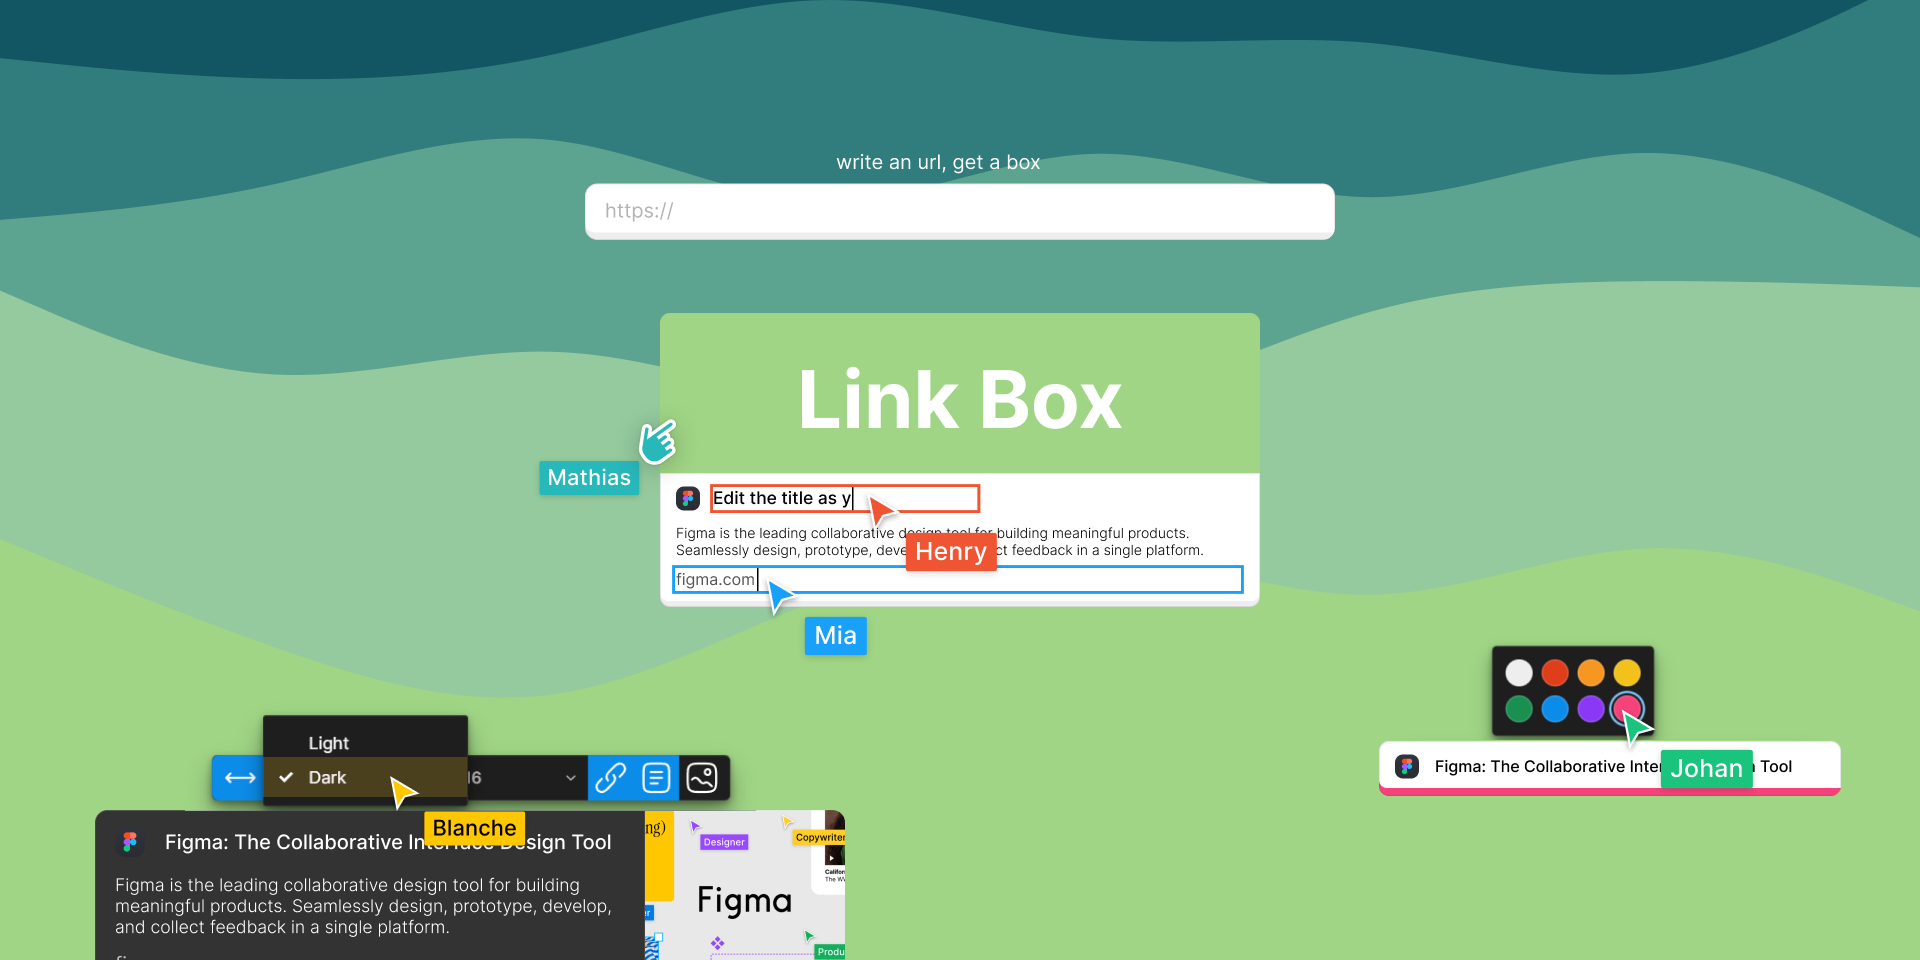
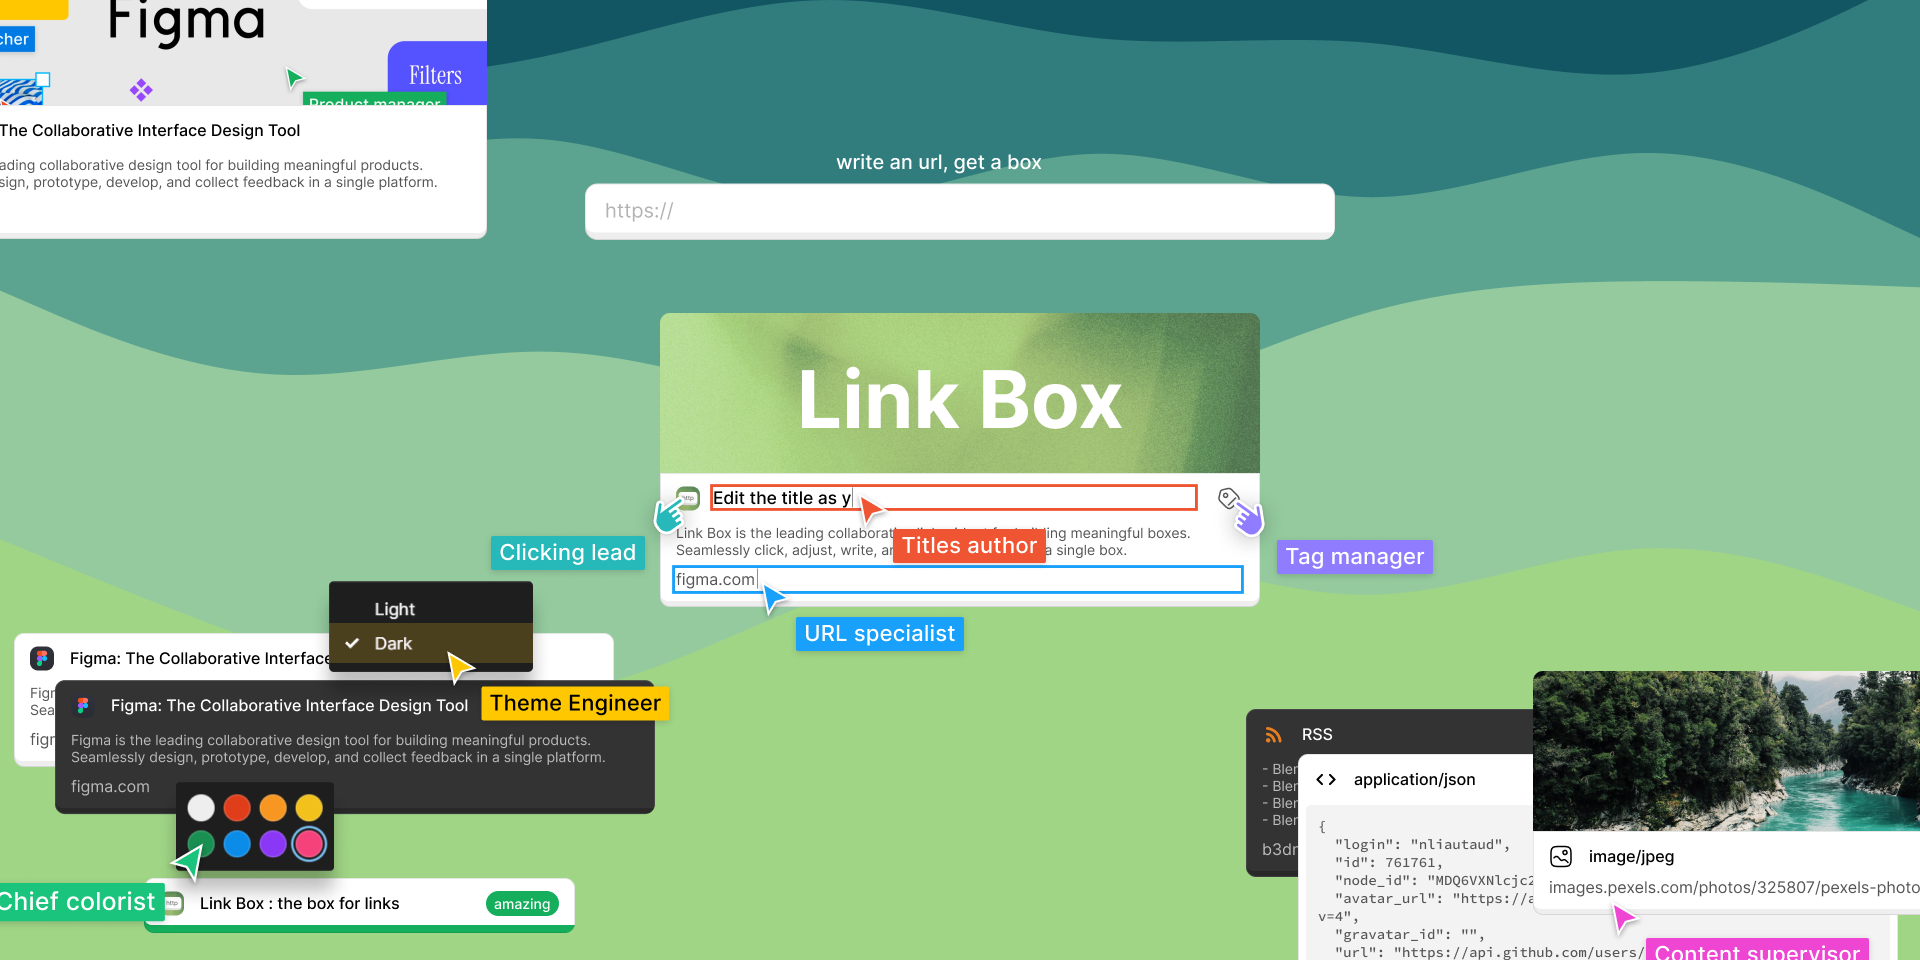
tags

diff --git a/widget-src/code.tsx b/widget-src/code.tsx
@@ -14,6 +14,7 @@ function Widget() {
   const [type, setType] = useSyncedState<LinkType>('type', LinkType.none)
   const [href, setHref] = useSyncedState('href', '')
   const [title, setTitle] = useSyncedState('title', '')
+  const [tag, setTag] = useSyncedState('tag', '')
   const [userTitle, setUserTitle] = useSyncedState('userTitle', '')
   const [icon, setIcon] = useSyncedState('icon', '')
   // const [svgIcon, setSvgIcon] = useSyncedState('icon', '')
@@ -141,41 +142,118 @@ function Widget() {
   // const colors = () => theme == 'light' ? Themes.Light : Themes.Dark
   const colors = theme == Themes.Light ? Colors.Light : Colors.Dark
 
-  const ImageComponent = fetchState && showImage && image ? (
-    <Image
-      name='Image'
-      src={image}
-      width={vertical ? 'fill-parent' : s(160)}
-      height={vertical ? s(160) : 'fill-parent'}
-    />
-  ) : null
-
-  const IconComponent = (
+  const IconComponent =
     icon && <Image
       name='icon'
       src={icon}
       width={s(24)}
       height={s(24)}
     />
-    // || svgIcon && <SVG
-    //   src={svgIcon}
-    //   width={s(24)}
-    //   height={s(24)}
-    // />
-  )
+  // || svgIcon && <SVG
+  //   src={svgIcon}
+  //   width={s(24)}
+  //   height={s(24)}
+  // />
+
   const DefaultIcon =
-    type == LinkType.none ? 
-    <Frame
-      width={s(24)}
-      height={s(24)}
-      cornerRadius={s(8)}
-      fill={accent == defaultAccent ? colors.border : accent}
-    ></Frame> :
-    <SVG
-      src={Icons.type(type, theme)}
-      width={s(24)}
-      height={s(24)}
-    />
+    type == LinkType.none ?
+      <Frame
+        width={s(24)}
+        height={s(24)}
+        cornerRadius={s(8)}
+        fill={accent == defaultAccent ? colors.border : accent}
+      ></Frame> :
+      <SVG
+        src={Icons.type(type, theme)}
+        width={s(24)}
+        height={s(24)}
+      />
+
+  const tagLong = tag.length > 30
+  const tagAtBottom = tagLong && !(image && showImage && vertical )
+  const tagAtTitle = !tagLong && !(image && showImage )
+  const tagOnImage = !tagAtBottom && !tagAtTitle
+
+  const [test, setTest] = useSyncedState('test', false)
+  const TagComponent =
+    <AutoLayout
+      name='TagWrapper'
+      padding={tagLong ? {
+        horizontal: s(8),
+        vertical: s(4)
+      } : undefined}
+      positioning={ tagOnImage ? 'absolute' : undefined}
+      width={tagOnImage ? (vertical ? s(600) : s(160) - s(16)) : undefined}
+      y={s(12)}
+      horizontalAlignItems={'end'}
+      verticalAlignItems={'center'}
+    >
+      <SVG
+        name='AddTag'
+        src={Icons.svg.tag(accent == defaultAccent ? colors.txtFaded : accent)}
+        hidden={tag.length > 0}
+        onClick={() => setTag("tag")}
+        width={s(24)}
+        height={s(24)}
+        opacity={0}
+        hoverStyle={{
+          opacity: 1
+        }}
+      />
+      <AutoLayout
+        name='Tag'
+        hidden={tag.length == 0}
+        verticalAlignItems={'center'}
+        cornerRadius={s(99)}
+        fill={accent == defaultAccent ? theme == Themes.Light ? colors.txtFaded : colors.txtFaded : accent}
+        padding={{
+          horizontal: s(8),
+          vertical: s(4)
+        }}
+      >
+        <Text
+          name='tag-clone-for-resize'
+          fontSize={s(14)}
+          width='hug-contents'
+          height='hug-contents'
+          opacity={0}
+        >{tag}</Text>
+        <Input
+          positioning='absolute'
+          x={0} y={0}
+          width='fill-parent'
+          name='tag'
+          value={tag}
+          onTextEditEnd={(event) => setTag(event.characters.trim())}
+          fill={accent == defaultAccent ? theme == Themes.Light ? colors.bg : colors.bg : colors.bg}
+          href=''
+          fontSize={s(14)}
+          verticalAlignText='center'
+          inputBehavior={'truncate'}
+          inputFrameProps={{
+            name: 'Tag-Input',
+            padding: {
+              horizontal: s(8),
+              vertical: s(4)
+            }
+          }} />
+      </AutoLayout>
+    </AutoLayout>
+
+  const ImageComponent = fetchState && showImage && image ? (
+    <AutoLayout
+      width={vertical ? 'fill-parent' : s(160)}
+      height={vertical ? s(160) : 'fill-parent'}
+    >
+      <Image
+        name='Image'
+        src={image}
+        width='fill-parent'
+        height='fill-parent'
+      />
+      {tagOnImage && TagComponent}
+    </AutoLayout>
+  ) : null
 
   const component = (
     <AutoLayout
@@ -236,7 +314,7 @@ function Widget() {
                   cornerRadius={s(8)}
                   onClick={() => navigate(Url.withHttps(href)?.href)}
                 >
-                  {IconComponent || DefaultIcon }
+                  {IconComponent || DefaultIcon}
                 </Frame>
                 <Input
                   name='Title-Input'
@@ -258,6 +336,7 @@ function Widget() {
                     wrap: true
                   }}
                 />
+                {tagAtTitle && TagComponent}
               </AutoLayout>
               {desc && showDesc ?
                 <AutoLayout
@@ -278,8 +357,9 @@ function Widget() {
                   >{desc}</Text>
                 </AutoLayout> : null}
             </> : null}
-          {showUrl && <AutoLayout
-            name='URL'
+          <AutoLayout
+            name='URL row'
+            hidden={!showUrl}
             width={'fill-parent'}
             verticalAlignItems={'center'}
             spacing={s(8)}
@@ -287,43 +367,44 @@ function Widget() {
               vertical: 0,
               horizontal: s(4)
             }}
+            overflow='hidden'
           >
             <Input
-              name='url-input'
-              fontWeight='normal'
+              name='url'
+              href=''
+              value={href}
+              onTextEditEnd={(event) => onChange(event.characters)}
               placeholder="https://"
               placeholderProps={{
                 fill: colors.txt,
                 fontSize: size,
-                fontWeight: 400
+                fontWeight: 400,
               }}
-              value={href}
-              href=''
-              onTextEditEnd={(event) => onChange(event.characters)}
-              truncate={1}
-              width='fill-parent'
-              height='hug-contents'
-              fill={colors.txtFaded}
               fontSize={size}
-              inputBehavior={'truncate'}
+              fontWeight='normal'
+              fill={colors.txtFaded}
+              width='fill-parent'
+              // text wrap on overflow, "Enter" to validate
+              inputBehavior='truncate'
               inputFrameProps={{
+                name: 'Input',
                 hoverStyle: {
                   fill: colors.bgHover
                 },
                 cornerRadius: s(8),
                 padding: s(4),
-                overflow: 'scroll',
-                wrap: false
               }}
             />
-            {fetchState == null && <Text
+            <Text
               name='loading'
+              hidden={fetchState != null}
               fontSize={s(13)}
               fill={colors.txtFaded}
-            >Loading...</Text>}
-          </AutoLayout>}
-          {error ? <AutoLayout
+            >Loading...</Text>
+          </AutoLayout>
+          <AutoLayout
             name='Error'
+            hidden={!error}
             width={'fill-parent'}
             padding={{
               vertical: s(4),
@@ -335,7 +416,8 @@ function Widget() {
               width={'fill-parent'}
               fill={colors.error}
             >{error}</Text>
-          </AutoLayout> : null}
+          </AutoLayout>
+          {tagAtBottom && TagComponent}
         </AutoLayout>
       </AutoLayout>
       {!vertical && ImageComponent}
@@ -403,7 +485,7 @@ function Widget() {
         propertyName: 'showImage',
         isToggled: showImage,
         tooltip: 'Show image',
-        icon: Icons.svg.image,
+        icon: Icons.svg.image(),
       },
       {
         itemType: 'separator'

diff --git a/widget-src/Icons.ts b/widget-src/Icons.ts
@@ -5,7 +5,7 @@ const svg = {
 
     rss: '<svg xmlns="http://www.w3.org/2000/svg" width="24" height="24" viewBox="0 0 24 24"><circle cx="6.18" cy="17.82" r="2.18" fill="#e67e22"/><path fill="#e67e22" d="M5.59 10.23c-.84-.14-1.59.55-1.59 1.4c0 .71.53 1.28 1.23 1.4c2.92.51 5.22 2.82 5.74 5.74c.12.7.69 1.23 1.4 1.23c.85 0 1.54-.75 1.41-1.59a9.894 9.894 0 0 0-8.19-8.18zm-.03-5.71C4.73 4.43 4 5.1 4 5.93c0 .73.55 1.33 1.27 1.4c6.01.6 10.79 5.38 11.39 11.39c.07.73.67 1.28 1.4 1.28c.84 0 1.5-.73 1.42-1.56c-.73-7.34-6.57-13.19-13.92-13.92z"/></svg>',
     
-    code: (colors:Theme ) => `<svg xmlns="http://www.w3.org/2000/svg" width="24" height="24" viewBox="0 0 24 24"><path fill="${colors.txt}" d="M8.7 15.9L4.8 12l3.9-3.9a.984.984 0 0 0 0-1.4a.984.984 0 0 0-1.4 0l-4.59 4.59a.996.996 0 0 0 0 1.41l4.59 4.6c.39.39 1.01.39 1.4 0a.984.984 0 0 0 0-1.4zm6.6 0l3.9-3.9l-3.9-3.9a.984.984 0 0 1 0-1.4a.984.984 0 0 1 1.4 0l4.59 4.59c.39.39.39 1.02 0 1.41l-4.59 4.6a.984.984 0 0 1-1.4 0a.984.984 0 0 1 0-1.4z"/></svg>`,
+    code: (c='#fff' ) => `<svg xmlns="http://www.w3.org/2000/svg" width="24" height="24" viewBox="0 0 24 24"><path fill="${c}" d="M8.7 15.9L4.8 12l3.9-3.9a.984.984 0 0 0 0-1.4a.984.984 0 0 0-1.4 0l-4.59 4.59a.996.996 0 0 0 0 1.41l4.59 4.6c.39.39 1.01.39 1.4 0a.984.984 0 0 0 0-1.4zm6.6 0l3.9-3.9l-3.9-3.9a.984.984 0 0 1 0-1.4a.984.984 0 0 1 1.4 0l4.59 4.59c.39.39.39 1.02 0 1.41l-4.59 4.6a.984.984 0 0 1-1.4 0a.984.984 0 0 1 0-1.4z"/></svg>`,
 
     vertical:`<svg xmlns="http://www.w3.org/2000/svg" width="24" height="24" viewBox="0 0 24 24" fill="none">
     <path d="M22 12H2M22 12L19 9M22 12L19 15M2 12L5 9M2 12L5 15" stroke="white" stroke-width="1.5" stroke-linecap="round" stroke-linejoin="round"/>
@@ -15,20 +15,24 @@ const svg = {
 
     description:`<svg xmlns="http://www.w3.org/2000/svg" width="24" height="24" viewBox="0 0 24 24"><g fill="none" stroke="#fff" stroke-width="1.5"><path d="M3 10c0-3.771 0-5.657 1.172-6.828C5.343 2 7.229 2 11 2h2c3.771 0 5.657 0 6.828 1.172C21 4.343 21 6.229 21 10v4c0 3.771 0 5.657-1.172 6.828C18.657 22 16.771 22 13 22h-2c-3.771 0-5.657 0-6.828-1.172C3 19.657 3 17.771 3 14v-4Z"/><path stroke-linecap="round" d="M8 12h8M8 8h8m-8 8h5"/></g></svg>`,
 
-    image:`<svg xmlns="http://www.w3.org/2000/svg" width="24" height="24" viewBox="0 0 24 24"><g fill="none" stroke="#fff" stroke-width="1.5"><path d="M2 12c0-4.714 0-7.071 1.464-8.536C4.93 2 7.286 2 12 2c4.714 0 7.071 0 8.535 1.464C22 4.93 22 7.286 22 12c0 4.714 0 7.071-1.465 8.535C19.072 22 16.714 22 12 22s-7.071 0-8.536-1.465C2 19.072 2 16.714 2 12Z"/><circle cx="16" cy="8" r="2"/><path stroke-linecap="round" d="m5 13.307l.81-.753a2.3 2.3 0 0 1 3.24.108l2.647 2.81c.539.572 1.42.649 2.049.18a2.317 2.317 0 0 1 2.986.181L19 18"/></g></svg>`,
+    image: (c='#fff' ) => `<svg xmlns="http://www.w3.org/2000/svg" width="24" height="24" viewBox="0 0 24 24"><g fill="none" stroke="${c}" stroke-width="1.5"><path d="M2 12c0-4.714 0-7.071 1.464-8.536C4.93 2 7.286 2 12 2c4.714 0 7.071 0 8.535 1.464C22 4.93 22 7.286 22 12c0 4.714 0 7.071-1.465 8.535C19.072 22 16.714 22 12 22s-7.071 0-8.536-1.465C2 19.072 2 16.714 2 12Z"/><circle cx="16" cy="8" r="2"/><path stroke-linecap="round" d="m5 13.307l.81-.753a2.3 2.3 0 0 1 3.24.108l2.647 2.81c.539.572 1.42.649 2.049.18a2.317 2.317 0 0 1 2.986.181L19 18"/></g></svg>`,
 
     iframely:`<svg width="96" height="96" fill="none" xmlns="http://www.w3.org/2000/svg"><path d="m22.764 54.08 20.494-16.585V25.48L16.666 49.003l6.098 5.078Zm3.895 3.216 16.599 13.878V59.158l-9.655-7.785-6.944 5.923ZM69.34 39.865 52.742 25.479v12.185l9.824 7.785 6.774-5.584Zm3.727 3.046L52.912 59.327v11.847l26.421-22.848-6.266-5.415Z" fill="#fff"/></svg>`,
 
     reload:`<svg xmlns="http://www.w3.org/2000/svg" width="20" height="20" viewBox="0 0 20 20"><path fill="#fff" d="M19.295 12a.704.704 0 0 1 .705.709v3.204a.704.704 0 0 1-.7.709a.704.704 0 0 1-.7-.709v-1.125C16.779 17.844 13.399 20 9.757 20c-4.41 0-8.106-2.721-9.709-6.915a.712.712 0 0 1 .4-.917c.36-.141.766.04.906.405c1.4 3.662 4.588 6.01 8.403 6.01c3.371 0 6.52-2.182 7.987-5.154l-1.471.01a.704.704 0 0 1-.705-.704a.705.705 0 0 1 .695-.714L19.295 12Zm-9.05-12c4.408 0 8.105 2.721 9.708 6.915a.712.712 0 0 1-.4.917a.697.697 0 0 1-.906-.405c-1.4-3.662-4.588-6.01-8.403-6.01c-3.371 0-6.52 2.182-7.987 5.154l1.471-.01a.704.704 0 0 1 .705.704a.705.705 0 0 1-.695.714L.705 8A.704.704 0 0 1 0 7.291V4.087c0-.392.313-.709.7-.709c.386 0 .7.317.7.709v1.125C3.221 2.156 6.601 0 10.243 0Z"/></svg>`,
+
+    tag: (c='#fff' ) => `<svg xmlns="http://www.w3.org/2000/svg" width="24" height="24" viewBox="0 0 24 24"><g fill="none" stroke="${c}" stroke-width="1.5"><path d="M4.728 16.137c-1.545-1.546-2.318-2.318-2.605-3.321c-.288-1.003-.042-2.068.45-4.197l.283-1.228c.413-1.792.62-2.688 1.233-3.302c.614-.613 1.51-.82 3.302-1.233l1.228-.284c2.13-.491 3.194-.737 4.197-.45c1.003.288 1.775 1.061 3.32 2.606l1.83 1.83C20.657 9.248 22 10.592 22 12.262c0 1.671-1.345 3.015-4.034 5.704C15.277 20.657 13.933 22 12.262 22c-1.67 0-3.015-1.345-5.704-4.034l-1.83-1.83Z"/><circle cx="8.607" cy="8.879" r="2" transform="rotate(-45 8.607 8.879)"/><path stroke-linecap="round" d="m11.542 18.5l6.979-6.98"/></g></svg>`
 }
 
 
 const type = (t: LinkType, theme: Themes) => {
   switch (t) {
     case LinkType.code:
-      return svg.code(Colors.get(theme))
+      return svg.code(Colors.get(theme).txt)
     case LinkType.rss:
-      return svg.rss
+        return svg.rss
+    case LinkType.image:
+        return svg.image(Colors.get(theme).txt)
     default:
       return ''
   }

diff --git a/widget-src/Fetch.ts b/widget-src/Fetch.ts
@@ -3,10 +3,11 @@ const URL = require('url')
 import { HTMLElement, parse as parseHtml, valid } from 'node-html-parser'
 
 export enum LinkType {
-  none,
-  html,
-  code,
-  rss
+  none = 'none',
+  html = 'html',
+  code = 'code',
+  rss = 'rss',
+  image = 'image',
 }
 export interface FetchResult {
   type: LinkType
@@ -57,6 +58,12 @@ const proxy = async (url: string, proxy=false):Promise<FetchResult> => {
             .replace(/^\<\!\[CDATA\[(.*)\]\]\>$/, '$1')
         ).join("\n- ")
         : undefined
+    }
+  } else if(hasContentType(response, ["image/"])) {
+    return {
+      type: LinkType.image,
+      title: contentType.split(';')[0],
+      image: url,
     }
   } else if(hasContentType(response, ["text/html", "application/xhtml+xml"])) {
     const root = parseHtml(content)
